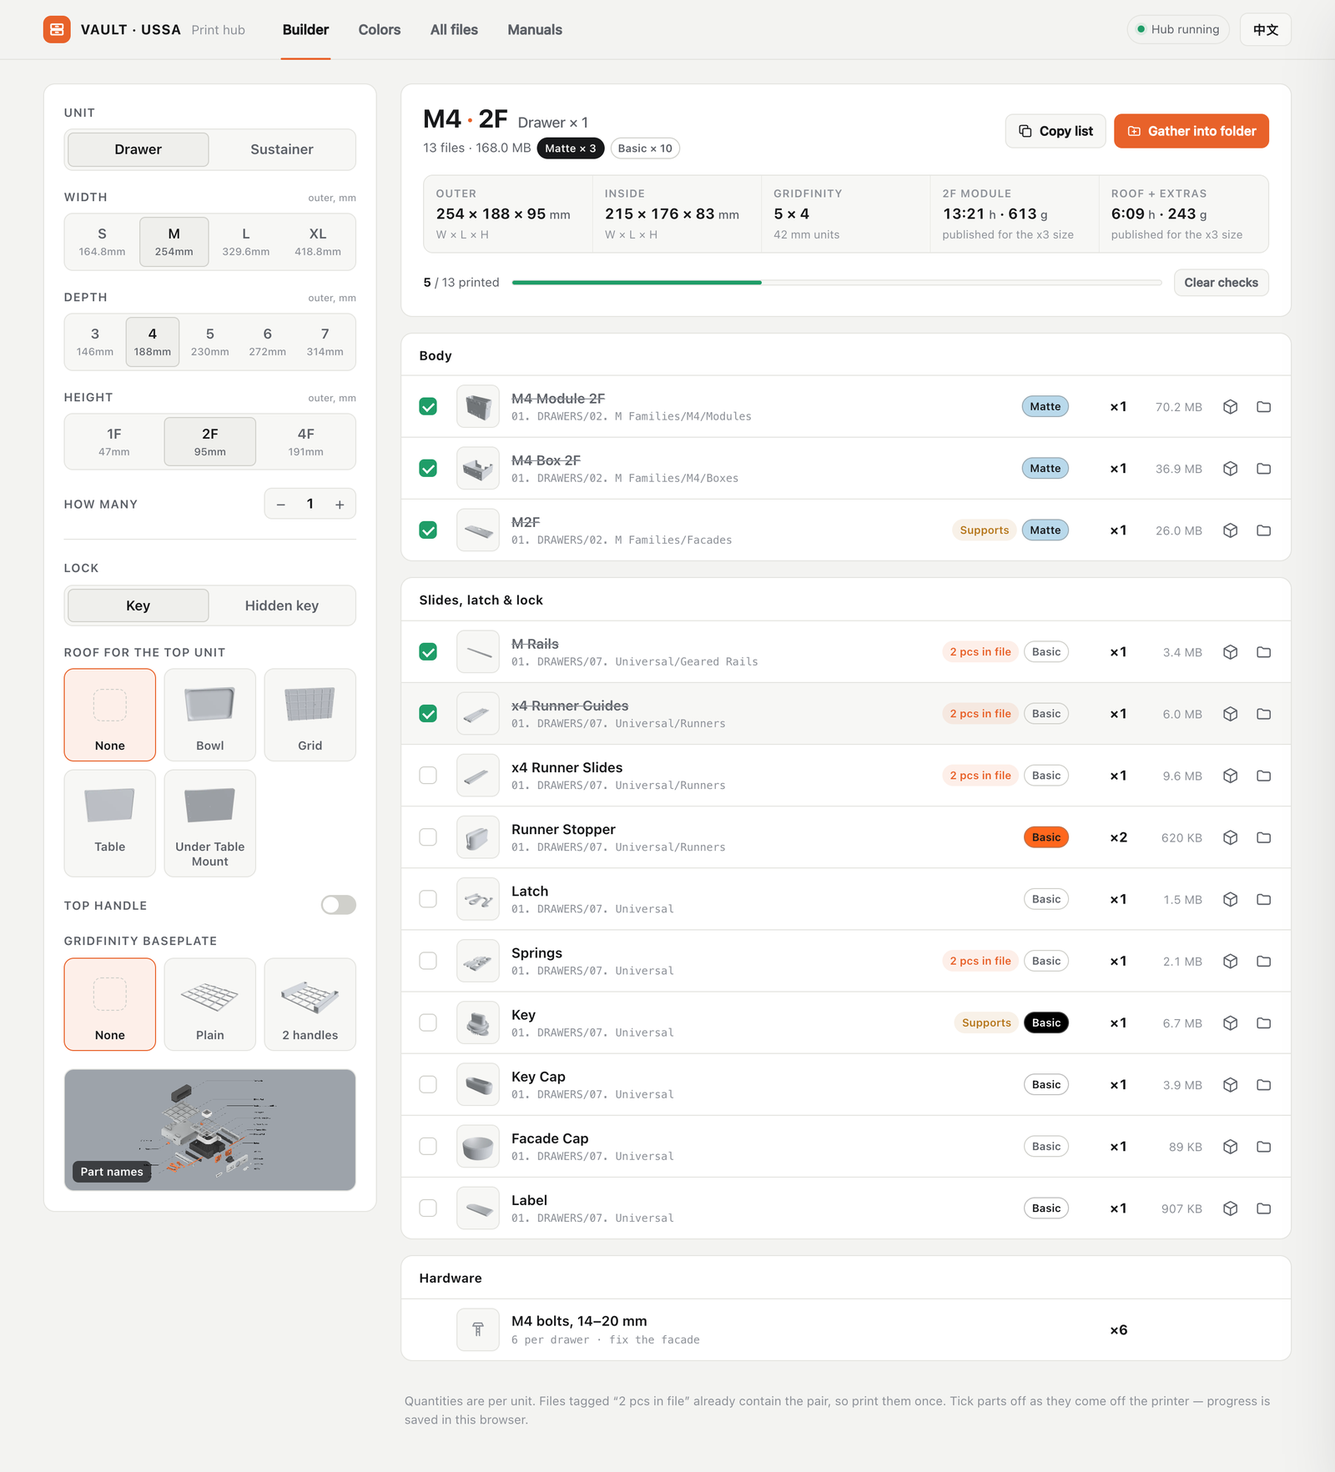
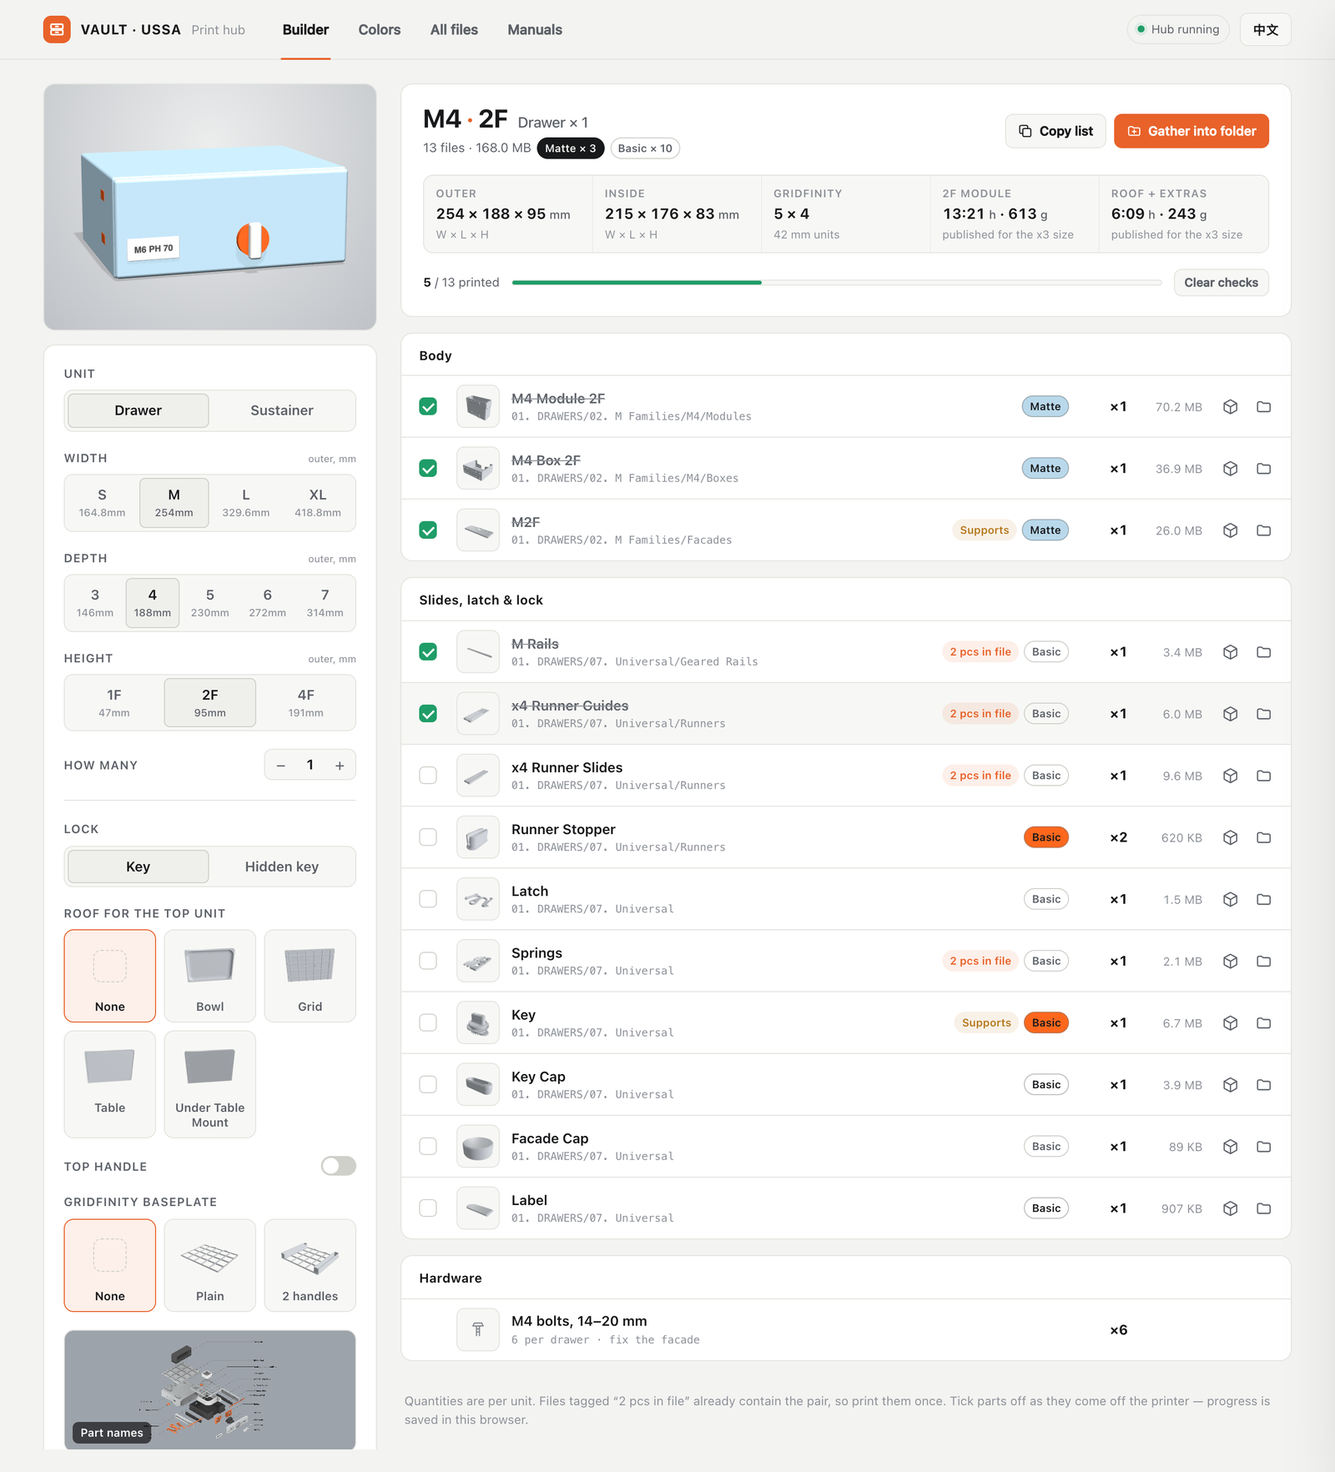
Builder: live 3D preview of the configured unit (all sizes, shapes, locks, roofs, handle); README feature list and new screenshots

diff --git a/index.html b/index.html
@@ -131,6 +131,11 @@ main { max-width: 1320px; margin: 0 auto; padding: 24px; }
 .view[hidden] { display: none !important; }
 
 /* ---------- Builder ---------- */
+.bcol { position: sticky; top: 84px; display: flex; flex-direction: column; gap: 14px; max-height: calc(100vh - 108px); overflow: auto; }
+.bcol .config { position: static; max-height: none; overflow: visible; }
+.bp { background: var(--panel); border: 1px solid var(--line); border-radius: var(--radius); overflow: hidden; flex: none; }
+.bp-stage { position: relative; height: 250px; background: radial-gradient(ellipse at 50% 25%, #eceded, #bfc2c7); }
+.bp-stage canvas { position: absolute; inset: 0; width: 100% !important; height: 100% !important; }
 .builder { display: grid; grid-template-columns: 340px minmax(0, 1fr); gap: 24px; align-items: start; }
 .config {
   position: sticky; top: 84px;
@@ -414,7 +419,7 @@ button.thumb:hover { border-color: var(--line-strong); }
   .colors { grid-template-columns: 1fr; }
   .col-main { order: -1; }
     .builder, .manuals { grid-template-columns: 1fr; }
-  .config, .doclist { position: static; max-height: none; }
+  .config, .doclist, .bcol { position: static; max-height: none; overflow: visible; }
   .brand-sub { display: none; }
 }
 @media (max-width: 640px) {
@@ -465,7 +470,10 @@ button.thumb:hover { border-color: var(--line-strong); }
   <!-- Builder -->
   <section class="view" id="view-build">
     <div class="builder">
-      <aside class="config" id="config"></aside>
+      <div class="bcol">
+        <div class="bp" id="bp"><div class="bp-stage" id="bp-stage"></div></div>
+        <aside class="config" id="config"></aside>
+      </div>
       <div class="results" id="results"></div>
     </div>
   </section>
@@ -1056,6 +1064,7 @@ function renderBuilder() {
   store.set('state', state);
   renderConfig();
   renderResults();
+  renderPreview();
 }
 
 $('#config').addEventListener('click', e => {
@@ -1537,13 +1546,12 @@ function renderColors() {
 
 function colorMessage(html) { const m = $('#col-msg'); m.innerHTML = html ? `<div class="box">${html}</div>` : ''; m.hidden = !html; }
 
-const colorEngine = () => (col.enginePromise ??= makeColorEngine());
-async function makeColorEngine() {
+// Shared 3D studio for the Colors tab and the Builder preview: renderer, lights, soft floor shadow and orbit controls.
+async function createStudio(stage, fov, isActive) {
   const THREE = await import('three');
   const { OrbitControls } = await import('three/addons/controls/OrbitControls.js');
   const { RoomEnvironment } = await import('three/addons/environments/RoomEnvironment.js');
   const { RoundedBoxGeometry } = await import('three/addons/geometries/RoundedBoxGeometry.js');
-  const stage = $('#col-stage');
   const renderer = new THREE.WebGLRenderer({ antialias: true, alpha: true });
   renderer.setPixelRatio(Math.min(devicePixelRatio, 2));
   renderer.shadowMap.enabled = true;
@@ -1551,7 +1559,7 @@ async function makeColorEngine() {
   stage.prepend(renderer.domElement);
   const scene = new THREE.Scene();
   scene.environment = new THREE.PMREMGenerator(renderer).fromScene(new RoomEnvironment(), 0.04).texture;
-  const camera = new THREE.PerspectiveCamera(12, 1, 1, 20000);
+  const camera = new THREE.PerspectiveCamera(fov, 1, 1, 20000);
   scene.add(camera);
   const sun = new THREE.DirectionalLight(0xffffff, 1.25);
   sun.position.set(40, 1200, 560);
@@ -1582,21 +1590,21 @@ async function makeColorEngine() {
   };
   new ResizeObserver(resize).observe(stage);
   renderer.setAnimationLoop(() => {
-    if (tab !== 'colors') return;
+    if (!isActive()) return;
     controls.update();
     renderer.render(scene, camera);
   });
-  col.engine = { THREE, RoundedBoxGeometry, scene, camera, controls, group, resize, renderer };
-  attachColorPicking(col.engine);
-  return col.engine;
+  return { THREE, RoundedBoxGeometry, scene, camera, controls, group, resize, renderer };
 }
+const colorEngine = () => (col.enginePromise ??= createStudio($('#col-stage'), 12, () => tab === 'colors').then(e => { col.engine = e; attachColorPicking(e); return e; }));
 
 const colorMaterial = (THREE, finish, hex) => finish === 'basic'
   ? new THREE.MeshPhysicalMaterial({ color: hex, roughness: 0.38, clearcoat: 0.3, clearcoatRoughness: 0.35, envMapIntensity: 0.8 })
   : new THREE.MeshStandardMaterial({ color: hex, roughness: 0.95, metalness: 0, envMapIntensity: 0.85 });
 
-/* --- A simplified tower of drawers and a sustainer, built from plain shapes (no STL files needed). --- */
-// Size and combination follow the reference photo: S1F + S1F / L1F / L2F / sustainer L2F / (S1F over S1F) + S2F, with roof and handle.
+/* --- Simplified drawers and sustainers built from plain shapes (no STL files needed). --- */
+// The Colors tab shows a tower that follows the reference photo: S1F + S1F / L1F / L2F / sustainer L2F / (S1F over S1F) + S2F, with roof and handle.
+// The Builder preview shows the unit you configured with the same shapes.
 const STACK = { S: 164.8, L: 329.6, F1: 52.5, F2: 105, DEPTH: 190, LID: 22 };
 function stackUnits() {
   const { S, L, F1, F2 } = STACK;
@@ -1624,9 +1632,9 @@ function labelTexture(THREE, dark) {
   return tex;
 }
 
-function buildTower(e) {
+// Helpers bound to one scene group; every mesh carries its Colors-tab role so it can be recolored and picked.
+function shapeKit(e) {
   const { THREE, RoundedBoxGeometry: RBG } = e;
-  const { L, DEPTH, LID } = STACK;
   const g = new THREE.Group();
   const mats = {};
   const mat = role => mats[role] ??= colorMaterial(THREE, ROLE_FINISH[role], colorOf(role).hex);
@@ -1648,48 +1656,134 @@ function buildTower(e) {
     text.position.set(cx - w / 2 + 40, y + h / 2 + ly, 9.3);
     g.add(text);
   };
-  for (const u of stackUnits()) {
-    const { cx, w, y, h } = u;
-    // Runner stoppers lock the drawer on its rail: flat plates flush with the box's left side wall, about a third of the way back
-    // from the front, one per 1F and two per 2F. Only the stack's left wall is visible, so only those boxes get them.
-    if (cx - w / 2 === -L / 2) {
-      for (const f of h < 60 ? [0.5] : u.kind === 'sustainer' ? [0.7, 0.3] : [0.74, 0.3]) add(rb(0.9, 10.5, 18, 1), mat('stopper'), -L / 2 + 0.75, y + h * f, -0.28 * DEPTH, 'stopper');
-    }
-    if (u.kind === 'drawer') {
-      add(rb(w - 1.5, h - 1.5, DEPTH, 3), mat('body'), cx, y + h / 2, -DEPTH / 2, 'body');
-      add(rb(w - 3, h - 3.5, 8, 4), mat('facade'), cx, y + h / 2, 3.5, 'facade');
-      const ky = y + h / 2 + (h > 60 ? -0.17 * h : 0), kx = cx + 0.07 * w;
-      const base = add(new THREE.CylinderGeometry(17, 17, 6, 40), mat('key'), kx, ky, 10.5, 'key');
-      base.rotation.x = Math.PI / 2;
-      add(rb(13, 38, 9, 3), mat('keycap'), kx, ky, 17.5, 'keycap');
-      label(cx, w, y, h, h > 60 ? -0.2 * h : -0.06 * h);
-    } else {
-      add(rb(w - 1.5, h - LID - 1, DEPTH, 3), mat('body'), cx, y + (h - LID - 1) / 2, -DEPTH / 2, 'body');
-      add(rb(w, LID, DEPTH + 2, 5), mat('roof'), cx, y + h - LID / 2, -DEPTH / 2 + 1, 'roof');
-      add(rb(w - 3, h - LID - 3.5, 8, 4), mat('facade'), cx, y + (h - LID - 1) / 2, 3.5, 'facade');
-      for (const s of [-1, 1]) {
-        add(rb(54, 62, 10, 4), mat('lock'), cx + s * 0.235 * w, y + h - 34, 9, 'lock');
-        add(rb(26, 5, 3, 2), slot, cx + s * 0.235 * w, y + h - 34, 14.5);
-      }
-      for (const sx of [-1, 1]) for (const yy of [10, h - LID - 8]) {
-        const b = add(new THREE.CylinderGeometry(4.5, 4.5, 2, 20), bolt, cx + sx * (w / 2 - 10), y + yy, 8);
-        b.rotation.x = Math.PI / 2;
-      }
-      label(cx, w, y, h, -h * 0.2);
-    }
+  return { THREE, g, mats, labelMat, mat, fixed, bolt, slot, rb, add, label };
+}
+
+function addDrawer(k, { cx, w, y, h }, depth, lock = 'key') {
+  const { THREE, add, mat, rb, label } = k;
+  add(rb(w - 1.5, h - 1.5, depth, 3), mat('body'), cx, y + h / 2, -depth / 2, 'body');
+  add(rb(w - 3, h - 3.5, 8, 4), mat('facade'), cx, y + h / 2, 3.5, 'facade');
+  const ky = y + h / 2 + (h > 60 ? -0.17 * h : 0), kx = cx + 0.07 * w;
+  if (lock === 'hidden') {   // hidden key: just a small round cover on the facade
+    add(new THREE.CylinderGeometry(6, 6, 3, 28), mat('key'), kx, ky, 9, 'key').rotation.x = Math.PI / 2;
+  } else {
+    add(new THREE.CylinderGeometry(17, 17, 6, 40), mat('key'), kx, ky, 10.5, 'key').rotation.x = Math.PI / 2;
+    add(rb(13, 38, 9, 3), mat('keycap'), kx, ky, 17.5, 'keycap');
   }
-  // Grid roof and top handle.
-  const rw = L + 2, ry = STACK_TOP + 5;
-  add(rb(rw, 10, DEPTH + 4, 3), mat('roof'), 0, ry, -DEPTH / 2, 'roof');
-  for (let i = 0; i <= 8; i++) add(new THREE.BoxGeometry(2.6, 5, DEPTH + 2), mat('roof'), -rw / 2 + 4 + i * ((rw - 8) / 8), ry + 6, -DEPTH / 2, 'roof');
-  for (let i = 0; i <= 4; i++) add(new THREE.BoxGeometry(rw - 2, 5, 2.6), mat('roof'), 0, ry + 6, -DEPTH + 4 + i * ((DEPTH - 8) / 4), 'roof');
+  label(cx, w, y, h, h > 60 ? -0.2 * h : -0.06 * h);
+}
+
+function addSustainer(k, { cx, w, y, h }, depth, locks = 2) {
+  const { THREE, add, mat, rb, label, bolt, slot } = k;
+  const { LID } = STACK;
+  add(rb(w - 1.5, h - LID - 1, depth, 3), mat('body'), cx, y + (h - LID - 1) / 2, -depth / 2, 'body');
+  add(rb(w, LID, depth + 2, 5), mat('roof'), cx, y + h - LID / 2, -depth / 2 + 1, 'roof');
+  add(rb(w - 3, h - LID - 3.5, 8, 4), mat('facade'), cx, y + (h - LID - 1) / 2, 3.5, 'facade');
+  const n = Math.max(0, Math.min(locks, Math.floor(w / 70))), lh = Math.min(62, h - 8);
+  for (let i = 0; i < n; i++) {
+    const lx = cx + ((i + 0.5) / n - 0.5) * w, ly = y + h - lh / 2 - 2;
+    add(rb(54, lh, 10, 4), mat('lock'), lx, ly, 9, 'lock');
+    add(rb(26, 5, 3, 2), slot, lx, ly, 14.5);
+  }
+  for (const sx of [-1, 1]) for (const yy of [10, h - LID - 8]) add(new THREE.CylinderGeometry(4.5, 4.5, 2, 20), bolt, cx + sx * (w / 2 - 10), y + yy, 8).rotation.x = Math.PI / 2;
+  label(cx, w, y, h, -h * 0.2);
+}
+
+// Runner stoppers lock the drawer on its rail: flat plates flush with the box's left side wall, about a third of the way back
+// from the front, one per 1F and two per 2F. Only the left wall of the stack is visible, so only boxes on that edge get them.
+function addStoppers(k, { y, h, kind }, depth, wallX) {
+  const fractions = h < 60 ? [0.5] : h > 150 ? [0.87, 0.62, 0.38, 0.13] : kind === 'sustainer' ? [0.7, 0.3] : [0.74, 0.3];
+  for (const f of fractions) k.add(k.rb(0.9, 10.5, 18, 1), k.mat('stopper'), wallX, y + h * f, -0.28 * depth, 'stopper');
+}
+
+// Roof styles of the top unit: grid, bowl, table and under-table mount.
+function addRoof(k, style, w, depth, y) {
+  const { THREE, add, mat, rb } = k;
+  const rw = w + 2;
+  add(rb(rw, 10, depth + 4, 3), mat('roof'), 0, y + 5, -depth / 2, 'roof');
+  if (style === 'grid') {
+    const nx = Math.max(2, Math.round(rw / 42)), nz = Math.max(2, Math.round(depth / 42));
+    for (let i = 0; i <= nx; i++) add(new THREE.BoxGeometry(2.6, 5, depth + 2), mat('roof'), -rw / 2 + 4 + i * ((rw - 8) / nx), y + 11, -depth / 2, 'roof');
+    for (let i = 0; i <= nz; i++) add(new THREE.BoxGeometry(rw - 2, 5, 2.6), mat('roof'), 0, y + 11, -depth + 4 + i * ((depth - 8) / nz), 'roof');
+  } else if (style === 'bowl') {   // a shallow tray: raised rim all round
+    add(new THREE.BoxGeometry(rw, 7, 3), mat('roof'), 0, y + 13, -depth - 0.5, 'roof');
+    add(new THREE.BoxGeometry(rw, 7, 3), mat('roof'), 0, y + 13, 1.5, 'roof');
+    for (const sx of [-1, 1]) add(new THREE.BoxGeometry(3, 7, depth + 4), mat('roof'), sx * (rw / 2 - 1.5), y + 13, -depth / 2, 'roof');
+  } else if (style === 'mount') {   // under-table mount: four flanges to screw the unit to a desk
+    for (const sx of [-1, 1]) for (const sz of [-1, 1]) add(rb(24, 4, 26, 2), mat('roof'), sx * (rw / 2 + 10), y + 3, -depth / 2 + sz * (depth / 2 - 4), 'roof');
+  }
+}
+
+function addHandle(k, base, depth) {
+  const { THREE, add, mat } = k;
   const rr = (w, h, r) => { const s = new THREE.Shape(); s.moveTo(-w / 2 + r, -h / 2); s.lineTo(w / 2 - r, -h / 2); s.absarc(w / 2 - r, -h / 2 + r, r, -Math.PI / 2, 0); s.lineTo(w / 2, h / 2 - r); s.absarc(w / 2 - r, h / 2 - r, r, 0, Math.PI / 2); s.lineTo(-w / 2 + r, h / 2); s.absarc(-w / 2 + r, h / 2 - r, r, Math.PI / 2, Math.PI); s.lineTo(-w / 2, -h / 2 + r); s.absarc(-w / 2 + r, -h / 2 + r, r, Math.PI, Math.PI * 1.5); return s; };
   const shape = rr(158, 54, 16);
   shape.holes.push(new THREE.Path(rr(112, 24, 12).getPoints(24)));
   const hg = new THREE.ExtrudeGeometry(shape, { depth: 36, bevelEnabled: true, bevelSize: 2.5, bevelThickness: 2.5, bevelSegments: 3, curveSegments: 16 });
   hg.translate(0, 0, -18);
-  add(hg, mat('handle'), 0, ry + 5 + 27, -DEPTH * 0.45, 'handle');
-  return { group: g, mats, labelMat };
+  add(hg, mat('handle'), 0, base + 27, -depth * 0.45, 'handle');
+}
+
+// The Colors tab tower.
+function buildTower(e) {
+  const k = shapeKit(e);
+  const { L, DEPTH } = STACK;
+  for (const u of stackUnits()) {
+    if (u.cx - u.w / 2 === -L / 2) addStoppers(k, u, DEPTH, -L / 2 + 0.75);
+    if (u.kind === 'drawer') addDrawer(k, u, DEPTH); else addSustainer(k, u, DEPTH, 2);
+  }
+  addRoof(k, 'grid', L, DEPTH, STACK_TOP);
+  addHandle(k, STACK_TOP + 10, DEPTH);
+  return { group: k.g, mats: k.mats, labelMat: k.labelMat };
+}
+
+// The Builder preview: the configured unit (size, shape, lock, roof, handle), stacked `count` high.
+function buildPreviewUnit(e, st) {
+  const k = shapeKit(e);
+  const w = SPEC.width[st.w], depth = SPEC.length(st.d), drawer = st.type === 'drawer';
+  const pitch = (drawer ? { '1F': 52.5, '2F': 105, '4F': 210 } : { '1F': 66, '2F': 105, '4F': 210 })[st.h];
+  const n = Math.max(1, Math.min(st.count | 0, 6));
+  for (let i = 0; i < n; i++) {
+    const u = { kind: st.type, cx: 0, w, y: i * pitch, h: pitch };
+    if (drawer) addDrawer(k, u, depth, st.lock); else addSustainer(k, u, depth, st.locks);
+    addStoppers(k, u, depth, -w / 2 + 0.75);
+  }
+  let base = n * pitch;
+  if (drawer) {
+    const style = /Under/i.test(st.roof) ? 'mount' : /Grid/i.test(st.roof) ? 'grid' : /Bowl/i.test(st.roof) ? 'bowl' : /Table/i.test(st.roof) ? 'table' : '';
+    if (style) { addRoof(k, style, w, depth, base); base += 10; }
+    if (st.handle) addHandle(k, base, depth);
+  }
+  return k;
+}
+
+const bp = { enginePromise: null, engine: null, kit: null, token: 0 };
+const bpEngine = () => (bp.enginePromise ??= createStudio($('#bp-stage'), 14, () => tab === 'build').then(e => {
+  e.controls.enableZoom = e.controls.enablePan = false;
+  e.renderer.domElement.style.touchAction = 'pan-y';   // one-finger vertical swipes still scroll the page
+  return (bp.engine = e);
+}));
+function disposeGroup(g) {
+  g.traverse(o => { o.geometry?.dispose(); if (o.material) [].concat(o.material).forEach(m => { m.map?.dispose(); m.dispose(); }); });
+}
+async function renderPreview() {
+  const token = ++bp.token;
+  let e;
+  try { e = await bpEngine(); } catch { $('#bp').hidden = true; return; }
+  if (token !== bp.token) return;
+  for (const g of [...e.group.children]) { disposeGroup(g); e.group.remove(g); }
+  bp.kit = buildPreviewUnit(e, state);
+  e.group.add(bp.kit.g);
+  e.resize();
+  const { THREE } = e;
+  const box = new THREE.Box3().setFromObject(e.group);
+  const size = box.getSize(new THREE.Vector3()), center = box.getCenter(new THREE.Vector3());
+  const vfov = THREE.MathUtils.degToRad(e.camera.fov), hfov = 2 * Math.atan(Math.tan(vfov / 2) * e.camera.aspect);
+  const dist = Math.max((size.y / 2) / Math.tan(vfov / 2), (size.x / 2) / Math.tan(hfov / 2)) * 1.32 + size.z / 2;
+  e.controls.target.copy(center);
+  e.camera.position.copy(center).add(new THREE.Vector3(-0.3, 0.2, 1).normalize().multiplyScalar(dist));
+  e.camera.near = dist / 100; e.camera.far = dist * 20; e.camera.updateProjectionMatrix();
+  e.controls.update();
 }
 
 // Builds the tower once; after that a color change only recolors it.

diff --git a/README.md b/README.md
@@ -2,13 +2,25 @@
 
 **English** | [简体中文](README.zh-CN.md)
 
-A local browser hub for finding your way around the VAULT modular stacking toolbox print files. It turns hundreds of loose STL files and nested folders into a searchable library with 3D previews and a "what do I need to print?" builder.
+A local browser hub for finding your way around the VAULT modular stacking toolbox print files. It turns hundreds of loose STL files and nested folders into a searchable library with 3D previews, a "what do I need to print?" builder with a live preview of the unit you configured, and a color picker for trying filament colors before you print.
 
 > **Unofficial fan tool.** Not affiliated with or endorsed by USSA. This repository contains **no** STL, PDF or image files from the VAULT project. You supply your own copy of the files you received as a backer / customer (see [Setup](#setup)).
 
 ## The problem
 
 The VAULT file pack has 700+ STL files spread over dozens of nested folders (Drawers, Sustainers, Modifications, each split by size family S / M / L / XL, then by depth, modules, roofs, facades, dividers, baseplates...). Working out which files make up *one* drawer, and printing them without missing a part, takes a lot of clicking.
+
+## Highlights
+
+- **Builder** – choose a drawer or sustainer, size and options, and get the complete list of files to print, with quantities, print time and weight estimates and hardware counts.
+- **Live preview** – a 3D render of the exact unit you configured (every width, depth, height, quantity, lock, roof and handle), updating as you click.
+- **Filament finish tags** – every STL is tagged Matte, Basic or TPU, and each tag is filled with the color you picked for that part.
+- **Color picker** – 8 Matte and 13 Basic colors on a 3D tower, click-to-recolor, shuffle, saved color templates, import / export.
+- **Print checklist** – tick parts off with a saved progress bar, copy the list, or gather all the files into one folder for your slicer.
+- **3D file preview** – orbit any STL in the browser with size and triangle count, wireframe and "open in slicer".
+- **Search all files** – instant search and filters over the whole pack, with thumbnails.
+- **Manuals** – the official PDFs next to a reference gallery.
+- **English / 中文**, light and dark theme that follow your system, and a layout that works on phones.
 
 ## Features
 
@@ -18,6 +30,7 @@ The VAULT file pack has 700+ STL files spread over dozens of nested folders (Dra
 
 Pick a unit and the hub lists every file you need, so nothing gets missed.
 
+- **Live preview** – a 3D render at the top of the options that follows every choice and shows the external parts only: body, facade, key lock and label (drawer) or lid, latches and bolts (sustainer), plus the roof (grid / bowl / table / under-table mount) and handle. It uses the colors from the Colors tab. Drag to rotate.
 - **Unit type** – Drawer or Sustainer (hinged-lid box).
 - **Size** – width S / M / L / XL, depth 3–7, height 1F / 2F / 4F, each with its outer size in mm, plus a quantity.
 - **Options** – lock style, roof for the top unit (none / bowl / grid / table / under-table mount), top handle, dividers, Gridfinity baseplate, locks per unit.
@@ -31,6 +44,10 @@ Pick a unit and the hub lists every file you need, so nothing gets missed.
 ![Builder showing an M4 2F sustainer](docs/builder-sustainer.png)
 
 *The sustainer view adds hinges & rods, a lock set and a locks-per-unit counter.*
+
+![Live preview for different sizes and shapes](docs/builder-preview.png)
+
+*The preview for six different configurations (from the top left): S3 1F drawer, M4 2F drawer with grid roof and handle, L5 4F drawer with bowl roof and handle, XL3 1F drawer with under-table mount, and M4 2F and XL sustainers.*
 
 | Suggested finish | Parts |
 |---|---|
@@ -52,6 +69,8 @@ Try filament colors on a rendered VAULT tower before you print. The tower is a s
 - **Templates** – *Save* stores the combination as a row of small color circles (one per distinct color, no name needed). Click one to load it, × to delete it (kept in your browser). **Reset colors** puts every part back to its default.
 - **Save / Import / Export** – all live in the Templates box. *Export* saves your picks as `colors.json`; *Import* loads such a file (or a template) back in, so picks can be shared or kept with the project. The same file is what the chosen colors will be added to the part labels from later.
 - On-screen colors are approximate. Check a physical swatch before printing.
+
+![Colors tab with custom colors and saved templates](docs/colors-custom-en.png)
 
 ### Print checklist
 
@@ -85,6 +104,16 @@ Try filament colors on a rendered VAULT tower before you print. The tower is a s
 
 - Full interface in English and Chinese, switchable with one click. Picks your browser language on first run and remembers your choice.
 
+### Phone and tablet
+
+<p>
+  <img src="docs/mobile-builder.png" width="260" alt="Builder on a phone">
+  &nbsp;&nbsp;
+  <img src="docs/mobile-colors.png" width="260" alt="Colors tab on a phone">
+</p>
+
+- On narrow screens the preview and the 3D tower come first and the options follow below; vertical swipes still scroll the page.
+
 ## Setup
 
 1. Download the VAULT files from your own Kickstarter / USSA account and unzip them.
@@ -113,6 +142,8 @@ Try filament colors on a rendered VAULT tower before you print. The tower is a s
 
 The hub opens at `http://127.0.0.1:8765`. Keep the terminal window open while you use it.
 
+> The Colors tab and the Builder preview are drawn from plain shapes, so they work without the STL files. The file list, thumbnails, 3D file preview and manuals need your copy of the VAULT files.
+
 > Opening `index.html` directly (double-click) still works for browsing, but browsers block local file access, so 3D preview and "Show in folder" are disabled. Use the launcher.
 
 ### Optional: thumbnails
@@ -129,7 +160,7 @@ python3 _hub/update_index.py
 
 - Python 3 (macOS and Linux) – Windows can fall back to PowerShell
 - A modern browser
-- Internet access for the 3D preview (three.js is loaded from a CDN)
+- Internet access for the 3D views: the file preview, the Builder preview and the Colors tab (three.js is loaded from a CDN)
 
 ## Privacy and security
 
